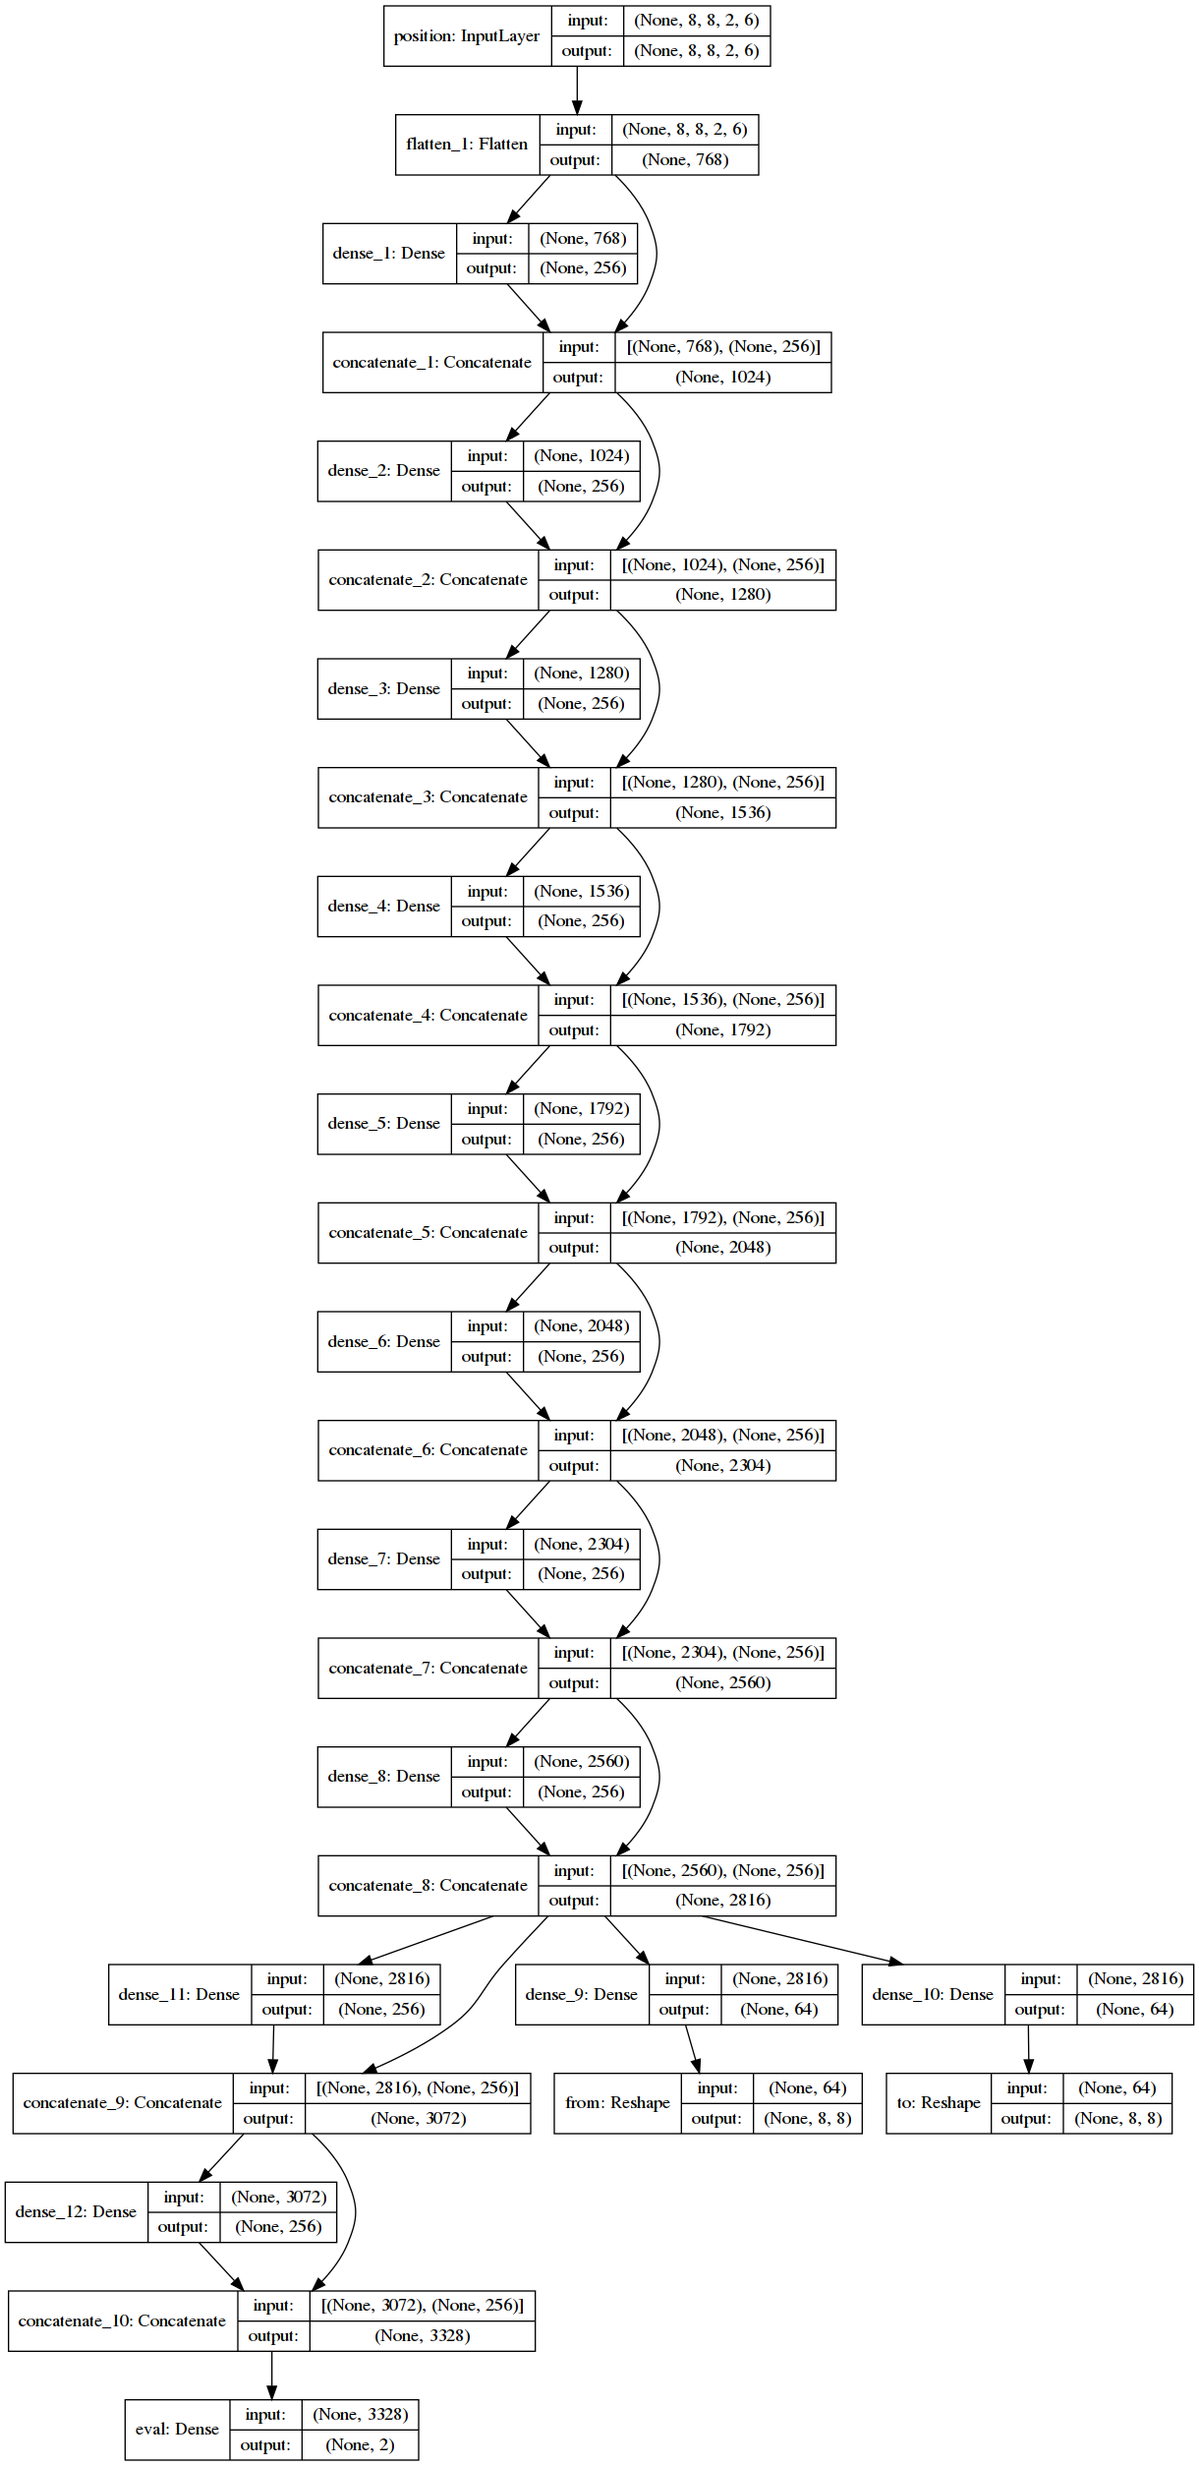
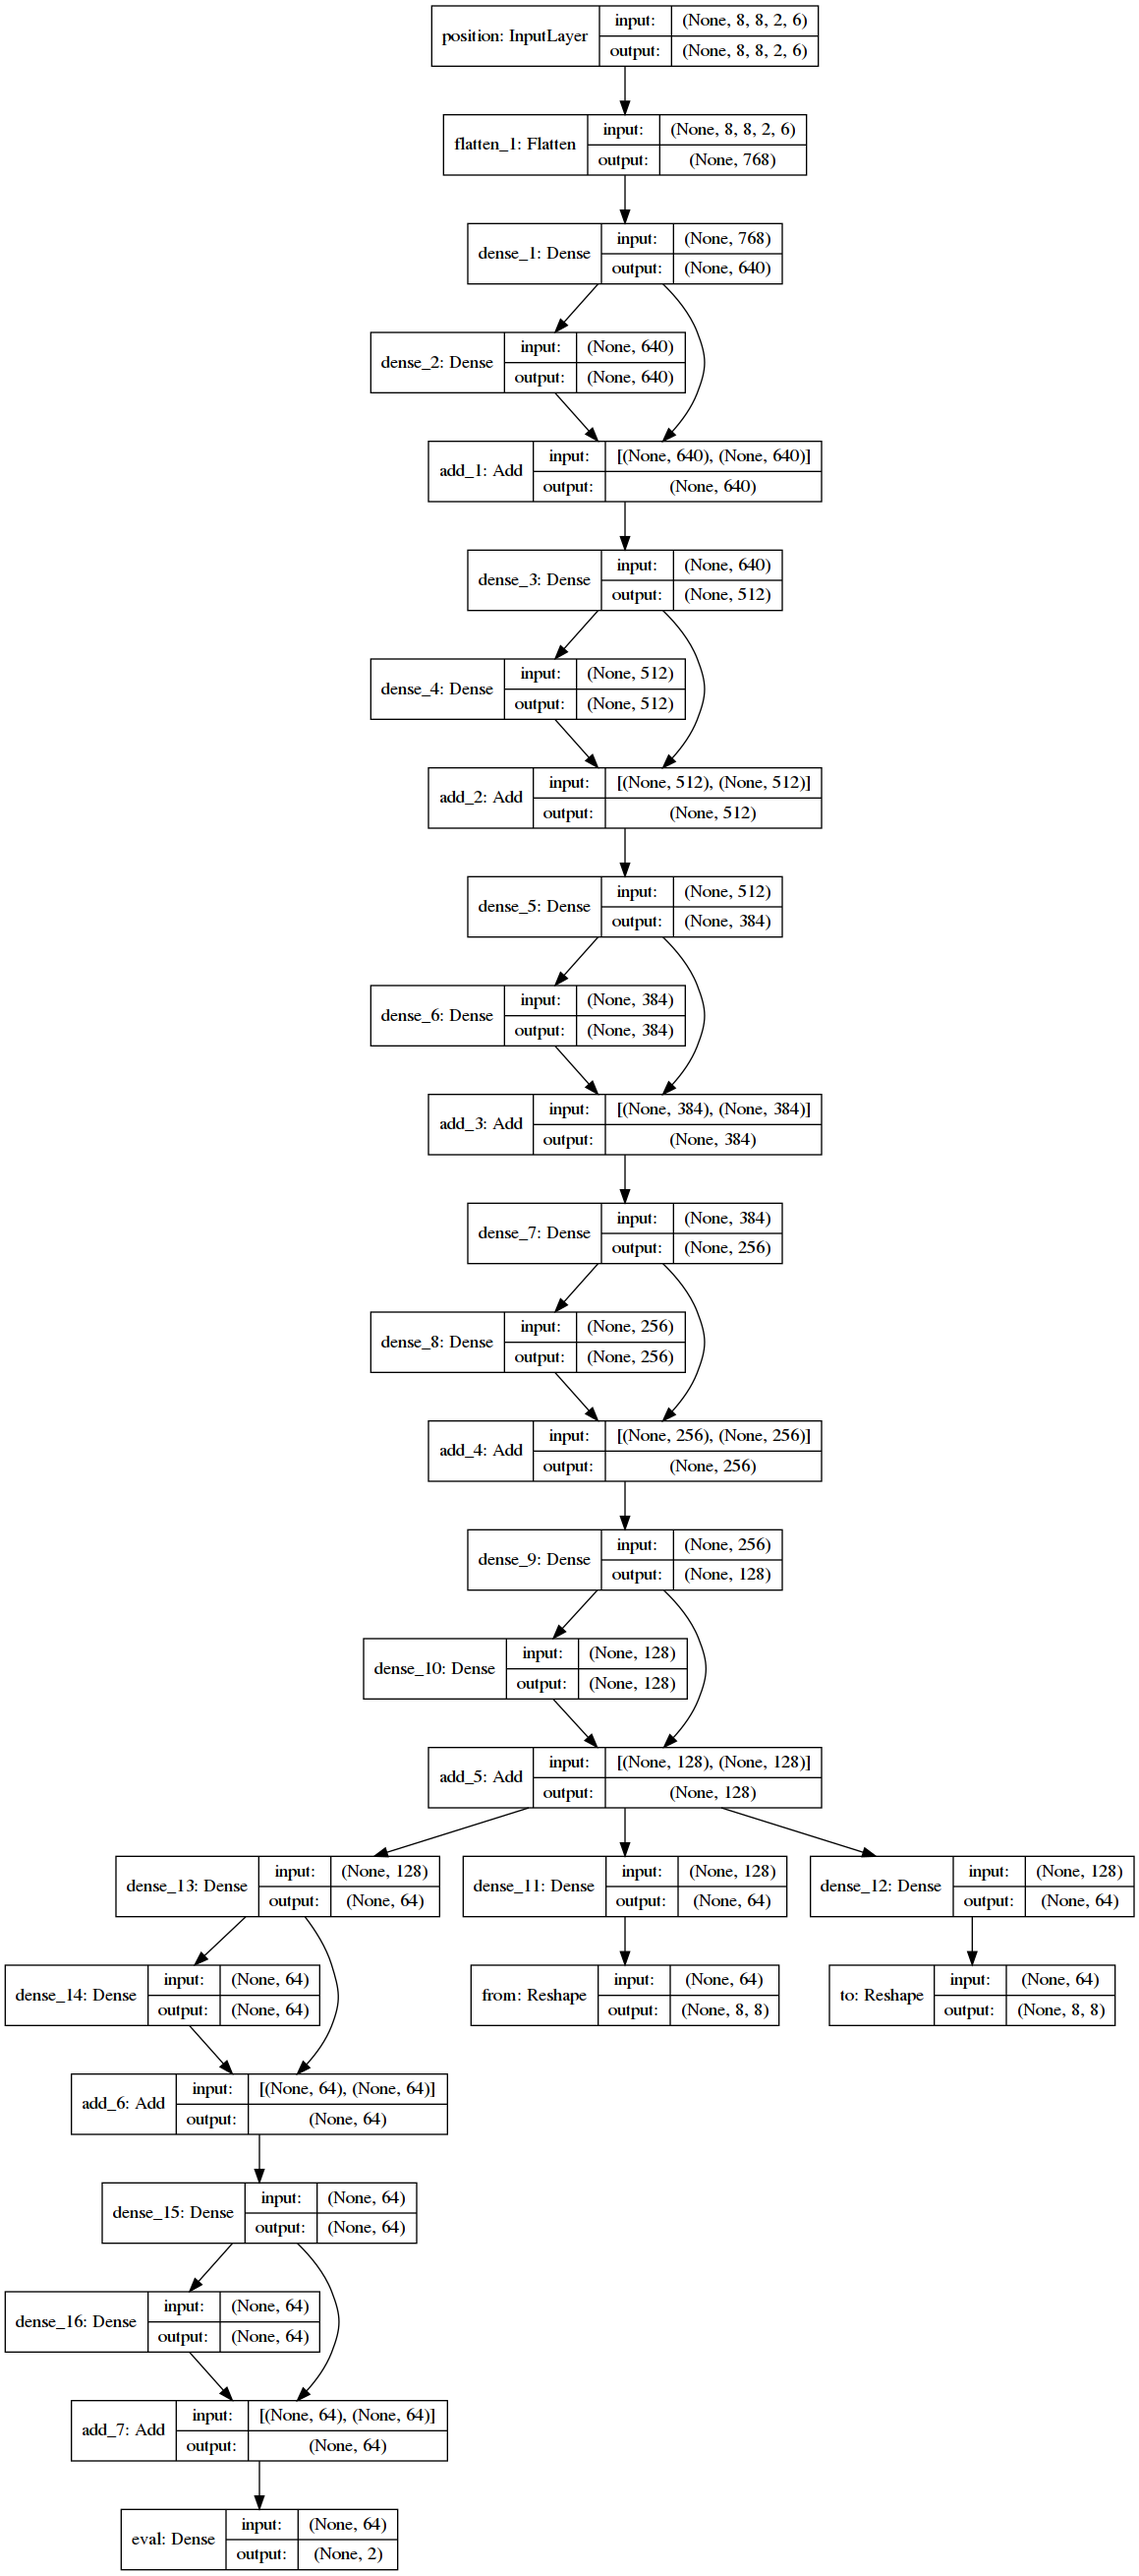
before trying conv

Changed region(s): [[0.0, 0.0, 1.0, 1.0]]

diff --git a/chessnn/nn.py b/chessnn/nn.py
@@ -7,7 +7,7 @@ import numpy as np
 from chess import PIECE_TYPES, square_file, square_rank
 from keras import layers, Model, models
 from keras.callbacks import TensorBoard
-from keras.layers import concatenate
+from keras.layers import merge
 from keras.utils import plot_model
 
 from chessnn import MoveRecord
@@ -32,15 +32,19 @@ class NN(object):
         self._model.save(filename, overwrite=True)
 
     def _get_nn(self):
-        reg = keras.regularizers.l2(0.001)
-        kernel = 8 * 8 * 4
+        reg = keras.regularizers.l2(0.00001)
+        kernel = 8 * 8
         activ_hidden = "sigmoid"  # linear relu elu sigmoid tanh softmax
         activ_out = "softmax"  # linear relu elu sigmoid tanh softmax
         optimizer = "nadam"  # sgd rmsprop adagrad adadelta adamax adam nadam
 
         def _residual(inp, size):
+            # out = layers.Dropout(rate=0.05)(inp)
+            inp = layers.Dense(size, activation=activ_hidden, kernel_regularizer=reg)(inp)
             out = layers.Dense(size, activation=activ_hidden, kernel_regularizer=reg)(inp)
-            return concatenate([inp, out])
+            out = merge.add([inp, out])
+            # out = layers.Dense(size, activation=activ_hidden, kernel_regularizer=reg)(out)
+            return out
 
         def _branch(layer, repeats, name):
             for _ in range(repeats):
@@ -52,6 +56,7 @@ class NN(object):
 
         position = layers.Input(shape=(8, 8, 2, len(PIECE_TYPES),), name="position")
         iflat = layers.Flatten()(position)
+        # iflat = layers.Dense(kernel, activation=activ_hidden, kernel_regularizer=reg)(iflat)
 
         # pmoves, out_pmoves = _branch(iflat, 4, "possible_moves")
         # attacks, out_attacks = _branch(iflat, 4, "attacks")
@@ -60,8 +65,13 @@ class NN(object):
         # threatened, out_threatened = _branch(iflat, 4, "threatened")
 
         main = iflat
-        for x in range(8):
-            main = _residual(main, kernel)
+
+        main = _residual(main, kernel * 10)
+        main = _residual(main, kernel * 8)
+        main = _residual(main, kernel * 6)
+        main = _residual(main, kernel * 4)
+        main = _residual(main, kernel * 2)
+
         out_from = layers.Dense(64, activation=activ_out)(main)
         out_from = layers.Reshape((8, 8), name="from")(out_from)
         out_to = layers.Dense(64, activation=activ_out)(main)
@@ -71,13 +81,13 @@ class NN(object):
 
         for x in range(2):
             beval = _residual(beval, kernel)
-        oeval = layers.Dense(2, activation="sigmoid", name="eval")(beval)
+        oeval = layers.Dense(2, activation=activ_out, name="eval")(beval)
 
         outputs = [oeval, out_from, out_to, ]  # out_pmoves, out_attacks, out_defences, out_threats, out_threatened]
         model = Model(inputs=[position, ], outputs=outputs)
         model.compile(optimizer=optimizer,
-                      loss=["categorical_crossentropy", ] + ['categorical_crossentropy'] * 2,
-                      loss_weights=[1.0, ] + [320.0, 640.0, ],
+                      loss="categorical_crossentropy",
+                      loss_weights=[0.025, 1.0, 1.0],
                       metrics=['categorical_accuracy'])
         plot_model(model, to_file='model.png', show_shapes=True)
         return model

diff --git a/training.py b/training.py
@@ -88,7 +88,7 @@ def play_with_score(pwhite, pblack):
 
     nn.learn(winning.dataset, 20)
 
-    rnd = 0
+    rnd = max([x.from_round for x in winning.dataset | losing.dataset]) if winning.dataset else 0
     non_decisive_cnt = 0
     had_decisive = False
     while True:
@@ -155,7 +155,7 @@ def play_with_score(pwhite, pblack):
             random.shuffle(lst)
             dataset.update(lst[:10 * non_decisive_cnt])
 
-            if had_decisive or not non_decisive_cnt % 5 or not winning.dataset:
+            if had_decisive or not non_decisive_cnt % 5:
                 nn.learn(dataset, 20)
                 nn.save("nn.hdf5")
 

diff --git a/README.md b/README.md
@@ -143,3 +143,5 @@ Doing several experiments:
 - Removing 3-fold repetition moves from learning data. Those moves are still present in the games, but learning input is nog garbaged by them.
 - Added "eval" output of NN, teaching it to evaluate win chance of the game. Game start with each player having 0.5 and then loser gets to 0.0 while winner gets to 1.0.
 - Playing back and forth with aux outputs of NN. They're still in question.
+
+Also figured out my residual unit were increasing of size with each level. Reworked that to constant size of 8 * 8 * 12 (initial inputs)
